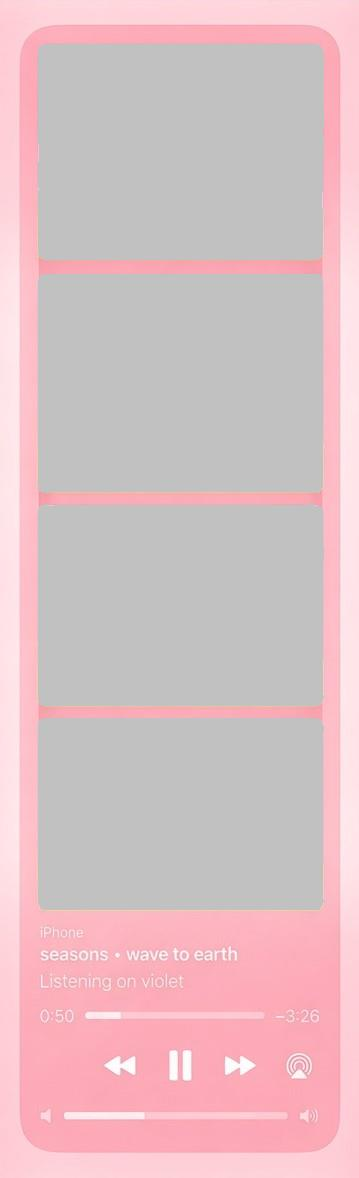
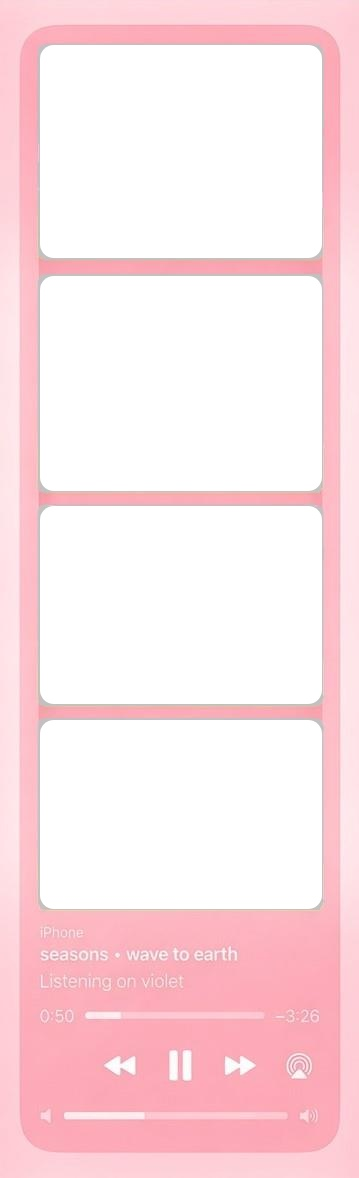
feat: add customization module for frames, filters, and photo booth layouts

diff --git a/src/lib/customization.ts b/src/lib/customization.ts
@@ -716,6 +716,7 @@ export function drawFrameBackground(
 // ─── Artisan Template System (Programmatic Canvas) ────────────────────────
 
 export type ArtisanTemplateId =
+  | 'port-archive'
   | 'theater-show'
   | 'every-moment-up'
   | 'retro-tv'
@@ -1202,6 +1203,27 @@ function everyFg(
 // ── Template registry ──────────────────────────────────────────────────────
 
 export const ARTISAN_TEMPLATES: ArtisanTemplate[] = [
+  {
+    id: 'port-archive',
+    label: 'Port Archive',
+    note: 'The Archive of Art · 4 shots',
+    nw: 396, nh: 1194,
+    slots: [
+      { x: 30, y: 116, w: 335, h: 235, r: 0 },
+      { x: 30, y: 373, w: 335, h: 239, r: 0 },
+      { x: 30, y: 634, w: 335, h: 238, r: 0 },
+      { x: 30, y: 894, w: 335, h: 238, r: 0 },
+    ],
+    ...makeImageTemplate('/templates/image.jpg', [
+      { x: 30, y: 116, w: 335, h: 235, r: 0 },
+      { x: 30, y: 373, w: 335, h: 239, r: 0 },
+      { x: 30, y: 634, w: 335, h: 238, r: 0 },
+      { x: 30, y: 894, w: 335, h: 238, r: 0 },
+    ], 45),
+    paintBg(ctx, w, h) { ctx.fillStyle = '#0c0c0c'; ctx.fillRect(0, 0, w, h); },
+    paintFg() {},
+    async paintFgAsync() {},
+  },
   // LINE 1
   {
     id: 'the-1975',

diff --git a/src/pages/edit.tsx b/src/pages/edit.tsx
@@ -227,7 +227,7 @@ export default function Edit() {
 
   const [isSaving, setIsSaving] = useState(false);
   const [category, setCategory] = useState<TabMode>(() => (sessionStorage.getItem('ps_edit_category') as TabMode) || 'booth');
-  const [artisanId, setArtisanId] = useState<ArtisanTemplateId>(() => (sessionStorage.getItem('ps_edit_artisan') as ArtisanTemplateId) || 'theater-show');
+  const [artisanId, setArtisanId] = useState<ArtisanTemplateId>(() => (sessionStorage.getItem('ps_edit_artisan') as ArtisanTemplateId) || 'port-archive');
   const [showArtisanWarning, setShowArtisanWarning] = useState(false);
   const [excludedShotIndex, setExcludedShotIndex] = useState<number>(() => {
     const s = sessionStorage.getItem('ps_edit_excluded');
